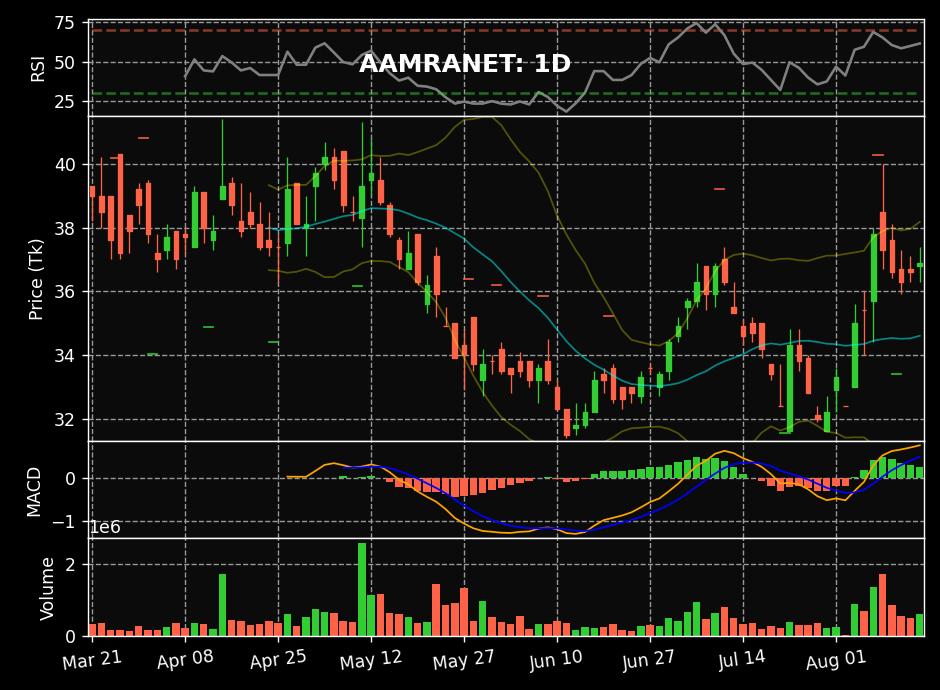
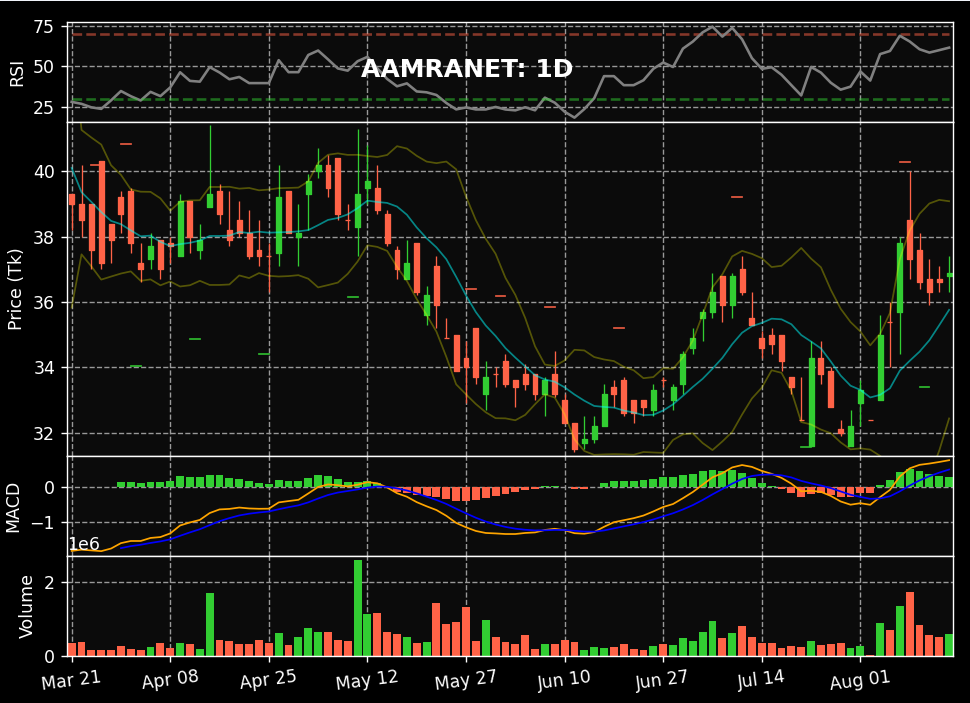
-Updated versions for requests, -Fixed issue regarding missing values from indicator plots, -Updated README, -Updated images

Changed region(s): [[0.0, 0.0, 0.9872, 1.0], [0.2468, 0.487, 0.3085, 0.5478]]

diff --git a/stocksurferbd_pkg/stocksurferbd/price_plots.py b/stocksurferbd_pkg/stocksurferbd/price_plots.py
@@ -16,27 +16,47 @@ from tapy import Indicators
 
 class CandlestickPlot(object):
 
-    def __init__(self, csv_path, symbol):
-        self.xlsx_path = csv_path
+    def __init__(
+        self,
+        file_path,
+        symbol,
+        data_n=120,
+        macd_fast=10,
+        macd_slow=22,
+        macd_smooth=7,
+        rsi_period=10,
+        bb_period=10,
+    ):
+        self.file_path = file_path
         self.data = None
+        self.data_n = data_n
         self.plots = []
         self.symbol = symbol
         self.color_up = 'limegreen'
         self.color_down = 'tomato'
+        self.macd_fast = macd_fast
+        self.macd_slow = macd_slow
+        self.macd_smooth = macd_smooth
+        self.rsi_period = rsi_period
+        self.bb_period = bb_period
 
-    @staticmethod
-    def get_macd(data, n_fast=10, n_slow=22, n_smooth=7):
-        fast_ema = data.ewm(span=n_fast, min_periods=n_slow).mean()
-        slow_ema = data.ewm(span=n_slow, min_periods=n_slow).mean()
+    def get_macd(self, data):
+        macd_n = self.data_n + max(self.macd_slow, self.macd_fast)
+        macd_data = data[-macd_n:]
+        fast_ema = macd_data.ewm(
+            span=self.macd_fast, min_periods=self.macd_slow
+        ).mean()
+        slow_ema = macd_data.ewm(
+            span=self.macd_slow, min_periods=self.macd_slow
+        ).mean()
         macd = pd.Series(fast_ema - slow_ema, name='macd')
-        macd_sig = pd.Series(macd.ewm(span=n_smooth, min_periods=n_smooth).mean(), name='macd_sig')
+        macd_sig = pd.Series(
+            macd.ewm(span=self.macd_smooth,min_periods=self.macd_smooth).mean(),
+            name='macd_sig'
+        )
         macd_hist = pd.Series(macd - macd_sig, name='macd_hist')
 
-        return macd, macd_sig, macd_hist
-
-    @staticmethod
-    def get_n_short(data_len):
-        return data_len // 3
+        return macd[-self.data_n:], macd_sig[-self.data_n:], macd_hist[-self.data_n:]
 
     @staticmethod
     def get_weekly(df, step='3D'):
@@ -72,14 +92,7 @@ class CandlestickPlot(object):
         return ncs
 
     def process_data_mpl(self, resample=False, step='3D', vol_key='VOLUME'):
-        df = pd.read_csv(
-            self.xlsx_path,
-            sep=r'\s*,\s*',
-            header=0,
-            encoding='ascii',
-            engine='python',
-        )
-        # print(df.head())
+        df = pd.read_excel(self.file_path)
         columns = ['DATE', 'CLOSEP', vol_key, 'HIGH', 'LOW', 'OPENP', 'TRADE']
         df = df[columns]
         df = df.rename(columns={
@@ -112,12 +125,14 @@ class CandlestickPlot(object):
         self.data = df
         return
 
-    def add_bb_plots(self, period=20, panel=0):
+    def add_bb_plots(self, panel=0):
         data, plots = self.data, self.plots
-        data_cl = data['Close'].values.tolist()
-        bb_u = bb_up(data_cl, period)
-        bb_l = bb_low(data_cl, period)
-        bb_m = bb_mid(data_cl, period)
+        bb_n = self.data_n + self.bb_period
+        bb_data = data[-bb_n:]
+        data_cl = bb_data['Close'].values.tolist()
+        bb_u = bb_up(data_cl, self.bb_period)[-self.data_n:]
+        bb_l = bb_low(data_cl, self.bb_period)[-self.data_n:]
+        bb_m = bb_mid(data_cl, self.bb_period)[-self.data_n:]
 
         bb_m_plot = mplf.make_addplot(bb_m, panel=panel, color='cyan', width=1, alpha=0.5)
         bb_l_plot = mplf.make_addplot(bb_l, panel=panel, color='yellow', width=1, alpha=0.3)
@@ -151,23 +166,24 @@ class CandlestickPlot(object):
             macd_plot, macd_signal_plot, macd_hist_plot
         ])
 
-    def add_rsi_plot(self, panel=0, timeperiod=10):
+    def add_rsi_plot(self, panel=0):
         data, plots = self.data, self.plots
+        rsi_n = self.data_n + self.rsi_period
+        rsi_data = data[-rsi_n:]
         color_up, color_down = self.color_up, self.color_down
-        n_data = len(data)
-        rsi = RSI(data['Close'], period=timeperiod)
+        rsi = RSI(rsi_data['Close'], period=self.rsi_period)[-self.data_n:]
 
         line_rsi = mplf.make_addplot(
             rsi, panel=panel, color='gray', ylabel='RSI', width=1.5,
         )
 
         line_os = mplf.make_addplot(
-            [70] * n_data, panel=panel,
+            [70] * self.data_n, panel=panel,
             color=color_down, alpha=.5, linestyle='dashed', width=1.5,
             secondary_y=False
         )
         line_ob = mplf.make_addplot(
-            [30] * n_data,
+            [30] * self.data_n,
             panel=panel,
             color=color_up, alpha=.5, linestyle='dashed', width=1.5,
             secondary_y=False,
@@ -181,12 +197,13 @@ class CandlestickPlot(object):
     def add_vol_plots(self, vol_panel=2):
         color_up, color_down = self.color_up, self.color_down
         data, plots = self.data, self.plots
-        vol_colors = data.apply(
+        vol_data = data[-self.data_n:]
+        vol_colors = vol_data.apply(
             lambda x: color_up if x['Close'] > x['Open'] else color_down,
             axis=1
         )
         volume_plot = mplf.make_addplot(
-            data['Volume'],
+            vol_data['Volume'],
             panel=vol_panel,
             color=vol_colors.values,
             type='bar',
@@ -197,19 +214,20 @@ class CandlestickPlot(object):
     def add_fractal_plot(self, panel=0):
         data, plots = self.data, self.plots
         color_up, color_down = self.color_up, self.color_down
-        ind = Indicators(data)
+        fr_data = data[-self.data_n:]
+        ind = Indicators(fr_data)
         ind.fractals(column_name_high='fr_high', column_name_low='fr_low')
-        data = ind.df
-        data['fr_high'] = data.apply(lambda x: x['Close'] * 1.08 if x['fr_high'] else np.nan, axis=1)
-        data['fr_low'] = data.apply(lambda x: x['Close'] * 0.92 if x['fr_low'] else np.nan, axis=1)
+        fr_data = ind.df
+        fr_data['fr_high'] = fr_data.apply(lambda x: x['Close'] * 1.08 if x['fr_high'] else np.nan, axis=1)
+        fr_data['fr_low'] = fr_data.apply(lambda x: x['Close'] * 0.92 if x['fr_low'] else np.nan, axis=1)
 
         fr_high_plot = mplf.make_addplot(
-            data['fr_high'], panel=panel,
+            fr_data['fr_high'], panel=panel,
             color=color_down, width=1, type='step', alpha=.9,
             secondary_y=False,
         )
         fr_low_plot = mplf.make_addplot(
-            data['fr_low'], panel=panel,
+            fr_data['fr_low'], panel=panel,
             color=color_up, width=1, type='step', alpha=.9,
             secondary_y=False,
 
@@ -218,12 +236,12 @@ class CandlestickPlot(object):
 
     def create_candlestick_chart(self, step='1D'):
         self.add_rsi_plot(panel=0)
-        self.add_bb_plots(period=20, panel=1)
+        self.add_bb_plots(panel=1)
         self.add_fractal_plot(panel=1)
         self.add_macd_plots(panel=2)
         self.add_vol_plots(vol_panel=3)
         custom_nc = self.get_nc_style()
-        data_mpl = self.data[['Date', 'Open', 'Close', 'Volume', 'High', 'Low']]
+        data_mpl = self.data[['Date', 'Open', 'Close', 'Volume', 'High', 'Low']][-self.data_n:]
         fig, axlist = mplf.plot(
             data_mpl,
             type='candle',
@@ -243,19 +261,18 @@ class CandlestickPlot(object):
 
         return fig, axlist
 
-    def show_plot(self, xtick_count=120, resample=False, step='1D'):
+    def show_plot(self, data_n=120, resample=False, step='1D'):
         self.process_data_mpl(resample=resample, step=step)
-        self.data = self.data[-xtick_count:]
+        self.data_n = data_n
         if not resample:
             step = '1D'
         fig, axlist = self.create_candlestick_chart(step=step)
         plt.show()
 
-    def get_candlestick_fig(self, xtick_count=120, resample=False, step='1D'):
+    def get_candlestick_fig(self, data_n=120, resample=False, step='1D'):
         self.process_data_mpl(resample=resample, step=step)
-        self.data = self.data[-xtick_count:]
+        self.data_n = data_n
         if not resample:
             step = '1D'
         fig, axlist = self.create_candlestick_chart(step=step)
         return fig, axlist
-

diff --git a/stocksurferbd_pkg/setup.py b/stocksurferbd_pkg/setup.py
@@ -5,10 +5,11 @@ with open("../README.md", "r", encoding="utf-8") as fh:
 
 setuptools.setup(
     name="stocksurferbd",
-    version="0.1.2a",
+    version="0.1.3",
     author="Sk Farhad",
     author_email="sk.farhad.eee@gmail.com",
-    description="This is a tool to download stock market data of Dhaka Stock Exchange.",
+    description="A Python library for downloading stock market data of Dhaka Stock"
+                " Exchange(DSE) and Chittagong Stock Exchange(CSE).",
     long_description=long_description,
     long_description_content_type="text/markdown",
     url="https://github.com/skfarhad/stocksurferbd",
@@ -21,17 +22,15 @@ setuptools.setup(
         "Operating System :: OS Independent",
     ],
     install_requires=[
-        'requests==2.25.1',
+        'requests==2.32.3',
         'pandas==2.2.2',
         'openpyxl==3.1.5',
         'beautifulsoup4==4.9.3',
         'matplotlib==3.9.2',
-        'mplfinance==0.12.7a17',
+        'mplfinance==0.12.10b0',
         'pyti==0.2.2',
         'tapy==1.9.1',
     ],
-    # package_dir={"": "src"},
-    # packages=setuptools.find_packages(where="dse_data_loader"),
     packages=['stocksurferbd'],
     python_requires=">=3.10",
     zip_safe=False

diff --git a/plot_price_data.py b/plot_price_data.py
@@ -1,8 +1,8 @@
 from stocksurferbd_pkg import CandlestickPlot
 
-cd_plot = CandlestickPlot(csv_path='AAMRANET_history_data.xlsx', symbol='AAMRANET')
+cd_plot = CandlestickPlot(file_path='AAMRANET_history_data.xlsx', symbol='AAMRANET')
 cd_plot.show_plot(
-    xtick_count=90,
+    data_n=90,
     resample=True,
     step='3D'
 )

diff --git a/README.md b/README.md
@@ -82,8 +82,8 @@ from stocksurferbd import CandlestickPlot
 
 cd_plot = CandlestickPlot(csv_path='ACI_history.xlsx', symbol='ACI')
 cd_plot.show_plot(
-    xtick_count=120, 
-    resample=True, 
+    data_n=120,
+    resample=True,
     step='3D'
 )
 ```
@@ -98,7 +98,7 @@ Stock broker trading panels.
 
 <br/>There are also 3 parameters show_plot() method-
 
-1. ```xtick_count``` : Provide an integer value. 
+1. ```data_n``` : Provide an integer value. 
    It sets the count of how many recent data points needs to be plotted.
 2. ```resample``` : Provide boolean ```True``` or ```False```. 
    Set ```True``` if you want to plot daily data aggregated by multiple days.
